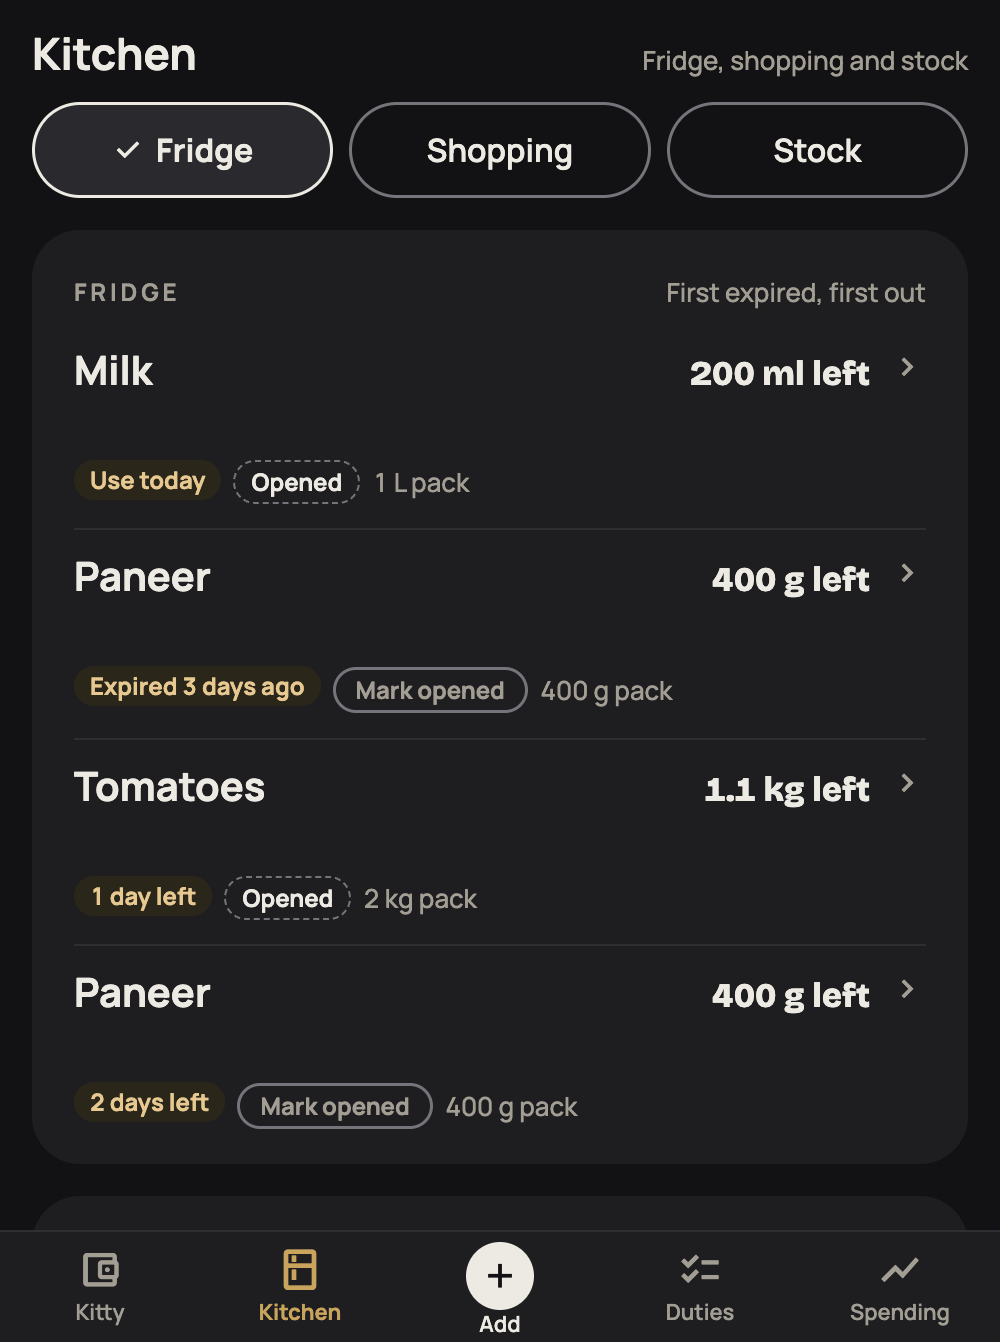
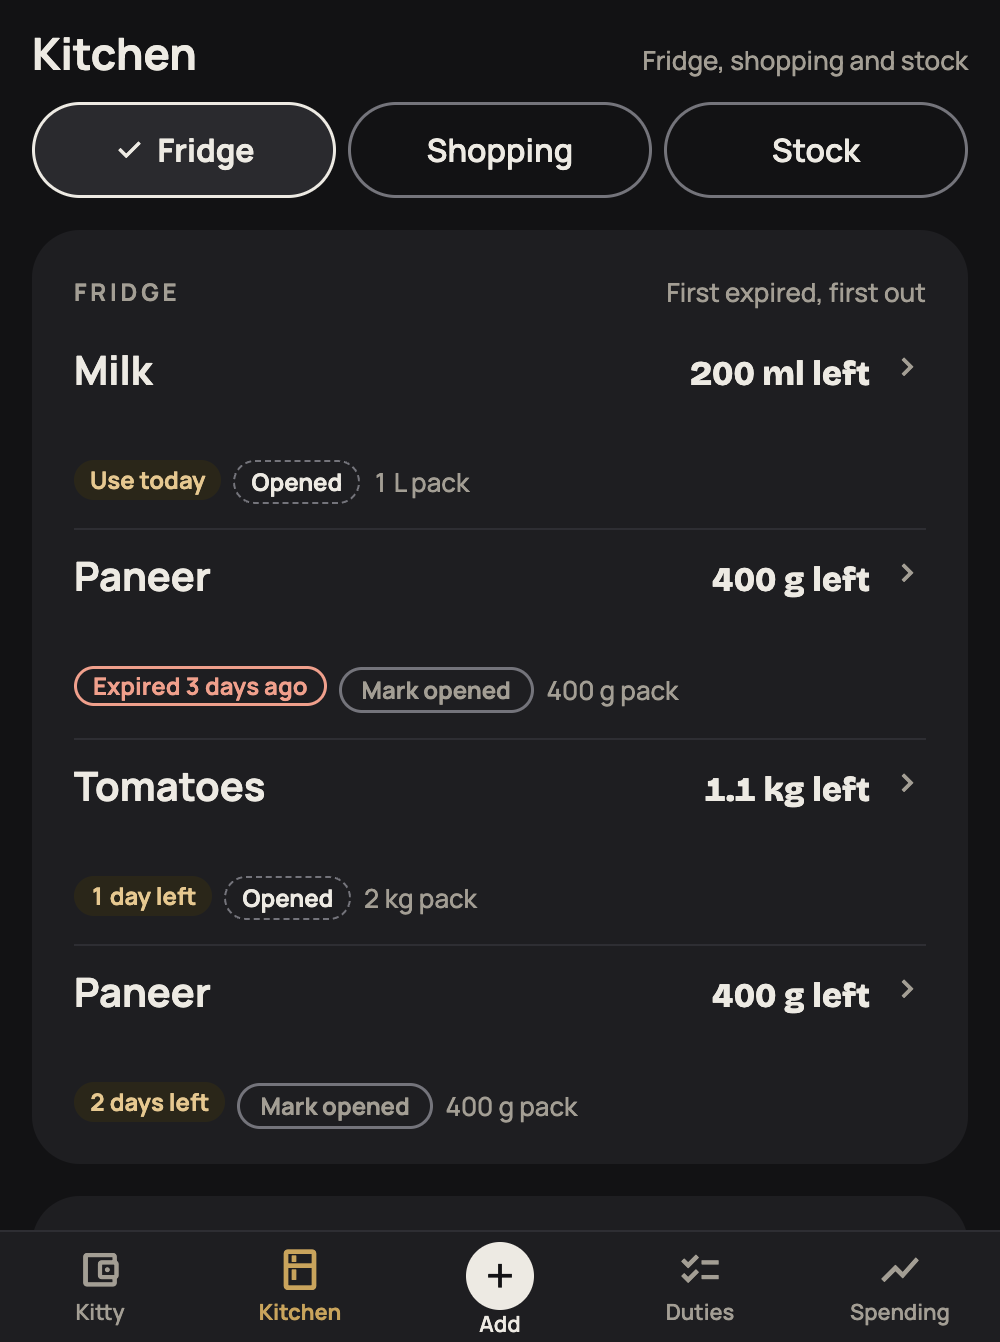
Expiry is a loss, and a resumed app should not serve yesterday's figures
Two things the reviews left open.

The fridge drew "Expired 3 days ago" in the same warm pill as "2 days left"
and "Use today", so the one row that has already cost the flat money read
like a nudge. It now wears the clay border and ink that "Threw away" wears
in the lot sheet. Expiring and low stay warm — a nudge is not a loss.

useFocusEffect fires on navigation, not on visibilitychange, and tabs stay
mounted. So switching tabs was fresh but reopening a backgrounded Home
Screen install — which is how all six of us actually use this — still
showed whatever was last fetched. BooksProvider now reloads when the page
becomes visible again. Verified in the browser: dispatching the event
fires 15 fresh REST reads.

Fridge screenshots re-shot in both themes.

diff --git a/src/ui/stock.tsx b/src/ui/stock.tsx
@@ -39,12 +39,23 @@ export function daysLabel(days: number, expiry: string): string {
   return `Good till ${MONTHS[Number(expiry.slice(5, 7)) - 1]} ${expiry.slice(0, 4)}`;
 }
 
-/** Warm marker: expiring, expired or low. DESIGN.md keeps clay for failed saves, so this is warnBg/warnFg. */
-export function WarnChip({ label }: { label: string }) {
+/** Warm marker: expiring or low — a nudge, so warnBg/warnFg, never clay. `bad` is the one step past
+ *  that: food already gone off, which is a loss and not a nudge, so it wears the clay border and ink
+ *  that "Threw away" wears in the lot sheet. */
+export function WarnChip({ label, bad }: { label: string; bad?: boolean }) {
   const c = usePalette();
   return (
-    <View style={{ alignSelf: 'flex-start', borderRadius: 9999, backgroundColor: c.warnBg, paddingHorizontal: 8, paddingVertical: 2 }}>
-      <T size={12} weight="700" color={c.warnFg} style={{ lineHeight: 16 }}>
+    <View
+      style={{
+        alignSelf: 'flex-start',
+        borderRadius: 9999,
+        backgroundColor: bad ? 'transparent' : c.warnBg,
+        borderWidth: bad ? 1.5 : 0,
+        borderColor: c.negative,
+        paddingHorizontal: 8,
+        paddingVertical: bad ? 0.5 : 2,
+      }}>
+      <T size={12} weight="700" color={bad ? c.negative : c.warnFg} style={{ lineHeight: 16 }}>
         {label}
       </T>
     </View>

diff --git a/src/lib/books.tsx b/src/lib/books.tsx
@@ -174,6 +174,15 @@ export function BooksProvider({ children }: { children: ReactNode }) {
     };
   }, [userId]);
 
+  // Tabs stay mounted, so useFocusEffect never fires when the flat reopens a backgrounded
+  // Home Screen install — that resume is the stale-data case the focus reloads cannot see.
+  useEffect(() => {
+    if (typeof document === 'undefined') return;
+    const onShow = () => document.visibilityState === 'visible' && void reload();
+    document.addEventListener('visibilitychange', onShow);
+    return () => document.removeEventListener('visibilitychange', onShow);
+  }, [reload]);
+
   const books = useMemo<Books | null>(
     () =>
       data

diff --git a/src/ui/fridge.tsx b/src/ui/fridge.tsx
@@ -190,7 +190,7 @@ function LotCard({
       <View style={{ flexDirection: 'row', alignItems: 'center', flexWrap: 'wrap', gap: 6 }}>
         {days !== null && lot.expiry_date !== null ? (
           days <= SOON ? (
-            <WarnChip label={daysLabel(days, lot.expiry_date)} />
+            <WarnChip label={daysLabel(days, lot.expiry_date)} bad={days < 0} />
           ) : (
             <Chip kind="pool" label={daysLabel(days, lot.expiry_date)} />
           )

diff --git a/docs/RESUME.md b/docs/RESUME.md
@@ -28,19 +28,23 @@ in the Kitty header (`src/app/flat.tsx`).
   `/fridge` `/shopping` `/stock` redirect onto the right Kitchen segment, `/duties/manage` deep-linked
   falls back to the Kitty, and the Add tab opens `/spend` without ever taking the selected state.
 - Spending's figures were cross-checked against `/statement/2026-09` and agree to the rupee.
-- Screenshots of both themes in `docs/screenshots/nav/` (22 files).
+- Screenshots of both themes in `docs/screenshots/nav/` (24 files).
+
+- Both reviews are done: 14 findings, 13 fixed, 2 of the rest refused with a reason and 2 reviewer
+  mistakes corrected (see the "Nav review" commits). The two criticals were real — Spending's
+  Zepto/local percentages disagreed with the statement for the same month, and the category bars
+  were scaled to the widest row rather than to the percentage printed beside them.
+- The fridge's "expired" pill is now clay, the same treatment "Threw away" wears in the lot sheet.
+  Expiring and low stay warm: a nudge is not a loss.
+- A backgrounded Home Screen install now refetches on `visibilitychange` — `useFocusEffect` only
+  fires on navigation, so tabs that stay mounted could serve hours-old figures after a resume.
 
 ## Still open
 
-1. **Design QA** has not been run. The navigation/regression review has: its findings are fixed on
-   `main` (see the "Nav review" commit), and `docs/screenshots/nav/` was re-shot for every screen
-   that changed, plus a new `*-3b-kitchen-shopping-bought` pair showing the Bought block.
-2. **Deploy.** Still not pushed and not deployed. The live flat is on the old build.
-3. The fridge's "expired" pill uses brass, not clay, although expiry is a negative state. That is the
-   shipped M3 fridge, not something this milestone introduced — worth settling in design QA.
-4. **Android APK** — `eas build -p android --profile preview`, free tier. iPhone sideloading needs
+1. **Deploy.** Still not pushed and not deployed. The live flat is on the old build.
+2. **Android APK** — `eas build -p android --profile preview`, free tier. iPhone sideloading needs
    Apple's $99/year account, so the Home Screen web app stays the answer there.
-5. Push reminders for duties would need a service worker, VAPID keys and a Home Screen install on
+3. Push reminders for duties would need a service worker, VAPID keys and a Home Screen install on
    iPhone. Deliberately not built.
 
 ## Local seed
